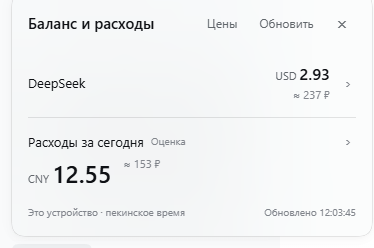
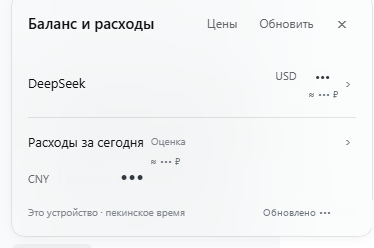
docs: скрыть суммы и время обновления на скриншоте

diff --git a/README.md b/README.md
@@ -17,16 +17,16 @@
 
 ![Обзор: баланс и расходы за сегодня с пересчётом в рубли](docs/images/balance-panel.png)
 
-*Обзор панели: доступный баланс и расходы за сегодня. Строки `≈ 237 ₽` и `≈ 153 ₽` —
-приблизительный пересчёт по курсу ЦБ, исходные суммы остаются в USD и CNY.*
+*Обзор панели: доступный баланс и расходы за сегодня. Строки `≈ … ₽` — приблизительный
+пересчёт по курсу ЦБ; суммы и время обновления на скриншоте скрыты.*
 
 ![Цены моделей](docs/images/prices-panel.png)
 
 *«Цены моделей»: свои цены за миллион токенов для пары «поставщик/модель», с валютой
 CNY или USD.*
 
-Скриншоты сделаны в рабочей установке DeepSeek Harness 0.2.1-rc.5; суммы — фактические
-остатки на момент снимка.
+Скриншоты сделаны в рабочей установке DeepSeek Harness 0.2.1-rc.5; суммы и время
+обновления скрыты, остальные данные не персональные.
 
 ## Возможности
 

diff --git a/README.en.md b/README.en.md
@@ -16,15 +16,15 @@ Russian UI dictionary.
 
 ![Overview: balance and today's spending with the ruble approximation](docs/images/balance-panel.png)
 
-*Overview: available balance and today's spending. The `≈ 237 ₽` / `≈ 153 ₽` lines are an
-approximate CBR-rate conversion; the original USD/CNY amounts are untouched.*
+*Overview: available balance and today's spending. The `≈ … ₽` lines are an approximate
+CBR-rate conversion; amounts and the update time are hidden on the screenshot.*
 
 ![Model prices](docs/images/prices-panel.png)
 
 *Model prices: per-model input/output/cache prices in CNY or USD.*
 
-Screenshots come from a working DeepSeek Harness 0.2.1-rc.5 installation; amounts are the
-actual balances at capture time.
+Screenshots come from a working DeepSeek Harness 0.2.1-rc.5 installation; amounts and the
+update time are masked, everything else is non-personal.
 
 ## Features
 
